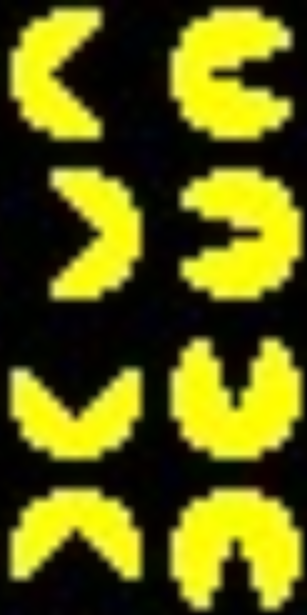
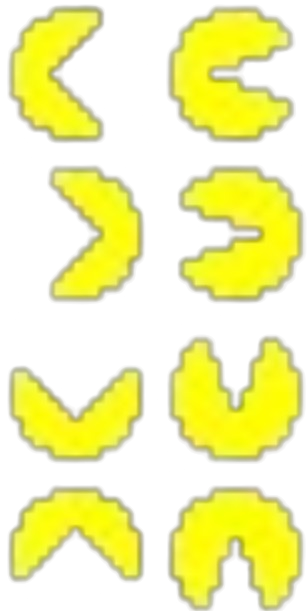
fix pacman animation after window resize

diff --git a/Source_files/pacman.cpp b/Source_files/pacman.cpp
@@ -5,6 +5,7 @@ Pacman::Pacman(Map *map) : map(map) {
     speed = 1.7f;
     x = 0;
     a = 0;
+    ImageSize = {2 * map->CellWidth, 4 * map->CellHeight};
     setSize();
 
     InitialPosition = map->getClPos(map->GetCell(0, 0)->arrPos);
@@ -20,117 +21,45 @@ void Pacman::draw() {
 }
 
 void Pacman::move() {
+    a++;
+    if (a % 10 == 0)
+        x = (x + 1) % 3;
+    AnimationBox.x = x * AnimationBox.width;
     InitialPosition.x += direction.x;
     InitialPosition.y += direction.y;
 }
 
 void Pacman::goRight() {
-    direction = {0, 0};
-    AnimationBox.y = 0 * AnimationBox.width;
-    a++;
-    if (a % 10 == 0) {
-        x++;
-    }
-    if (x > 2)
-        x = 0;
-    AnimationBox.x = x * AnimationBox.width;
-    direction.x += speed;
-
-    if (direction.x > 0) {
-        AnimationBox.y = 0 * AnimationBox.width;
-        a++;
-        if (a % 10 == 0) {
-            x++;
-        }
-        if (x > 2)
-            x = 0;
-        AnimationBox.x = x * AnimationBox.width;
-    }
+    direction = {speed, 0};
+    AnimationBox.y = 0 * AnimationBox.height;
     move();
 }
 
 void Pacman::goLeft() {
-    direction = {0, 0};
-    AnimationBox.y = 1 * AnimationBox.width;
-    a++;
-    if (a % 10 == 0) {
-        x++;
-    }
-    if (x > 2)
-        x = 0;
-    AnimationBox.x = x * AnimationBox.width;
-    direction.x -= speed;
-
-    if (direction.x < 0) {
-        AnimationBox.y = 1 * AnimationBox.width;
-        a++;
-        if (a % 10 == 0) {
-            x++;
-        }
-        if (x > 2)
-            x = 0;
-        AnimationBox.x = x * AnimationBox.width;
-    }
+    direction = {-1 * speed, 0};
+    AnimationBox.y = 1 * AnimationBox.height;
     move();
 }
 
 void Pacman::goUp() {
-    direction = {0, 0};
-    AnimationBox.y = 2 * AnimationBox.width;
-    a++;
-    if (a % 10 == 0) {
-        x++;
-    }
-    if (x > 2)
-        x = 0;
-    AnimationBox.x = x * AnimationBox.width;
-    direction.y -= speed;
-    if (direction.y < 0) {
-        AnimationBox.y = 2 * AnimationBox.width;
-        a++;
-        if (a % 10 == 0) {
-            x++;
-        }
-        if (x > 2)
-            x = 0;
-        AnimationBox.x = x * AnimationBox.width;
-    }
+    direction = {0, -1 * speed};
+    AnimationBox.y = 2 * AnimationBox.height;
     move();
 }
 
 void Pacman::goDown() {
-    direction = {0, 0};
-    AnimationBox.y = 3 * AnimationBox.width;
-    a++;
-    if (a % 10 == 0) {
-        x++;
-    }
-    if (x > 2)
-        x = 0;
-    AnimationBox.x = x * AnimationBox.width;
-    direction.y += speed;
-
-    if (direction.y > 0) {
-        AnimationBox.y = 3 * AnimationBox.width;
-        a++;
-        if (a % 10 == 0) {
-            x++;
-        }
-        if (x > 2)
-            x = 0;
-        AnimationBox.x = x * AnimationBox.width;
-    }
+    direction = {0, speed};
+    AnimationBox.y = 3 * AnimationBox.height;
     move();
 };
 
 void Pacman::setSize() {
     PacmanImage = LoadImage("assets/pac.png");
+    Vector2 OldImageSize = ImageSize;
     ImageSize = {2 * map->CellWidth, 4 * map->CellHeight};
+    speed *= (ImageSize.x * ImageSize.y) / (OldImageSize.x * OldImageSize.y);
     ImageResize(&PacmanImage, ImageSize.x, ImageSize.y);
-
     pacmanText = LoadTextureFromImage(PacmanImage);
+    AnimationBox = {0, 0, PacmanImage.width / 2.f, pacmanText.height / 4.f};
     UnloadImage(PacmanImage);
-
-    // TODO : doesn't update succeffuly
-    AnimationBox = {0, 0, pacmanText.width / 2.f, pacmanText.height / 4.f};
 }

diff --git a/Source_files/Level.cpp b/Source_files/Level.cpp
@@ -38,16 +38,16 @@ void Level::start() {
         }
         if (IsKeyPressed(KEY_F))
             map->FindPath(source, dest);
-        if (IsKeyDown(KEY_UP) || pacman->direction.y < 0) {
+        if (IsKeyPressed(KEY_UP) || pacman->direction.y < 0) {
             pacman->goUp();
         }
-        if (IsKeyDown(KEY_DOWN) || pacman->direction.y > 0) {
+        if (IsKeyPressed(KEY_DOWN) || pacman->direction.y > 0) {
             pacman->goDown();
         }
-        if (IsKeyDown(KEY_RIGHT) || pacman->direction.x > 0) {
+        if (IsKeyPressed(KEY_RIGHT) || pacman->direction.x > 0) {
             pacman->goRight();
         }
-        if (IsKeyDown(KEY_LEFT) || pacman->direction.x < 0) {
+        if (IsKeyPressed(KEY_LEFT) || pacman->direction.x < 0) {
             pacman->goLeft();
         }
         EndDrawing();

diff --git a/Header_files/pacman.h b/Header_files/pacman.h
@@ -9,7 +9,7 @@ class Pacman {
     Rectangle AnimationBox;
     Vector2 ImageSize;
     Vector2 InitialPosition;
-    float x;
+    int x;
     float speed;
     int a;
     Map *map;
@@ -25,4 +25,5 @@ class Pacman {
     void goUp();
     void goDown();
     void setSize();
+    void die();
 };
